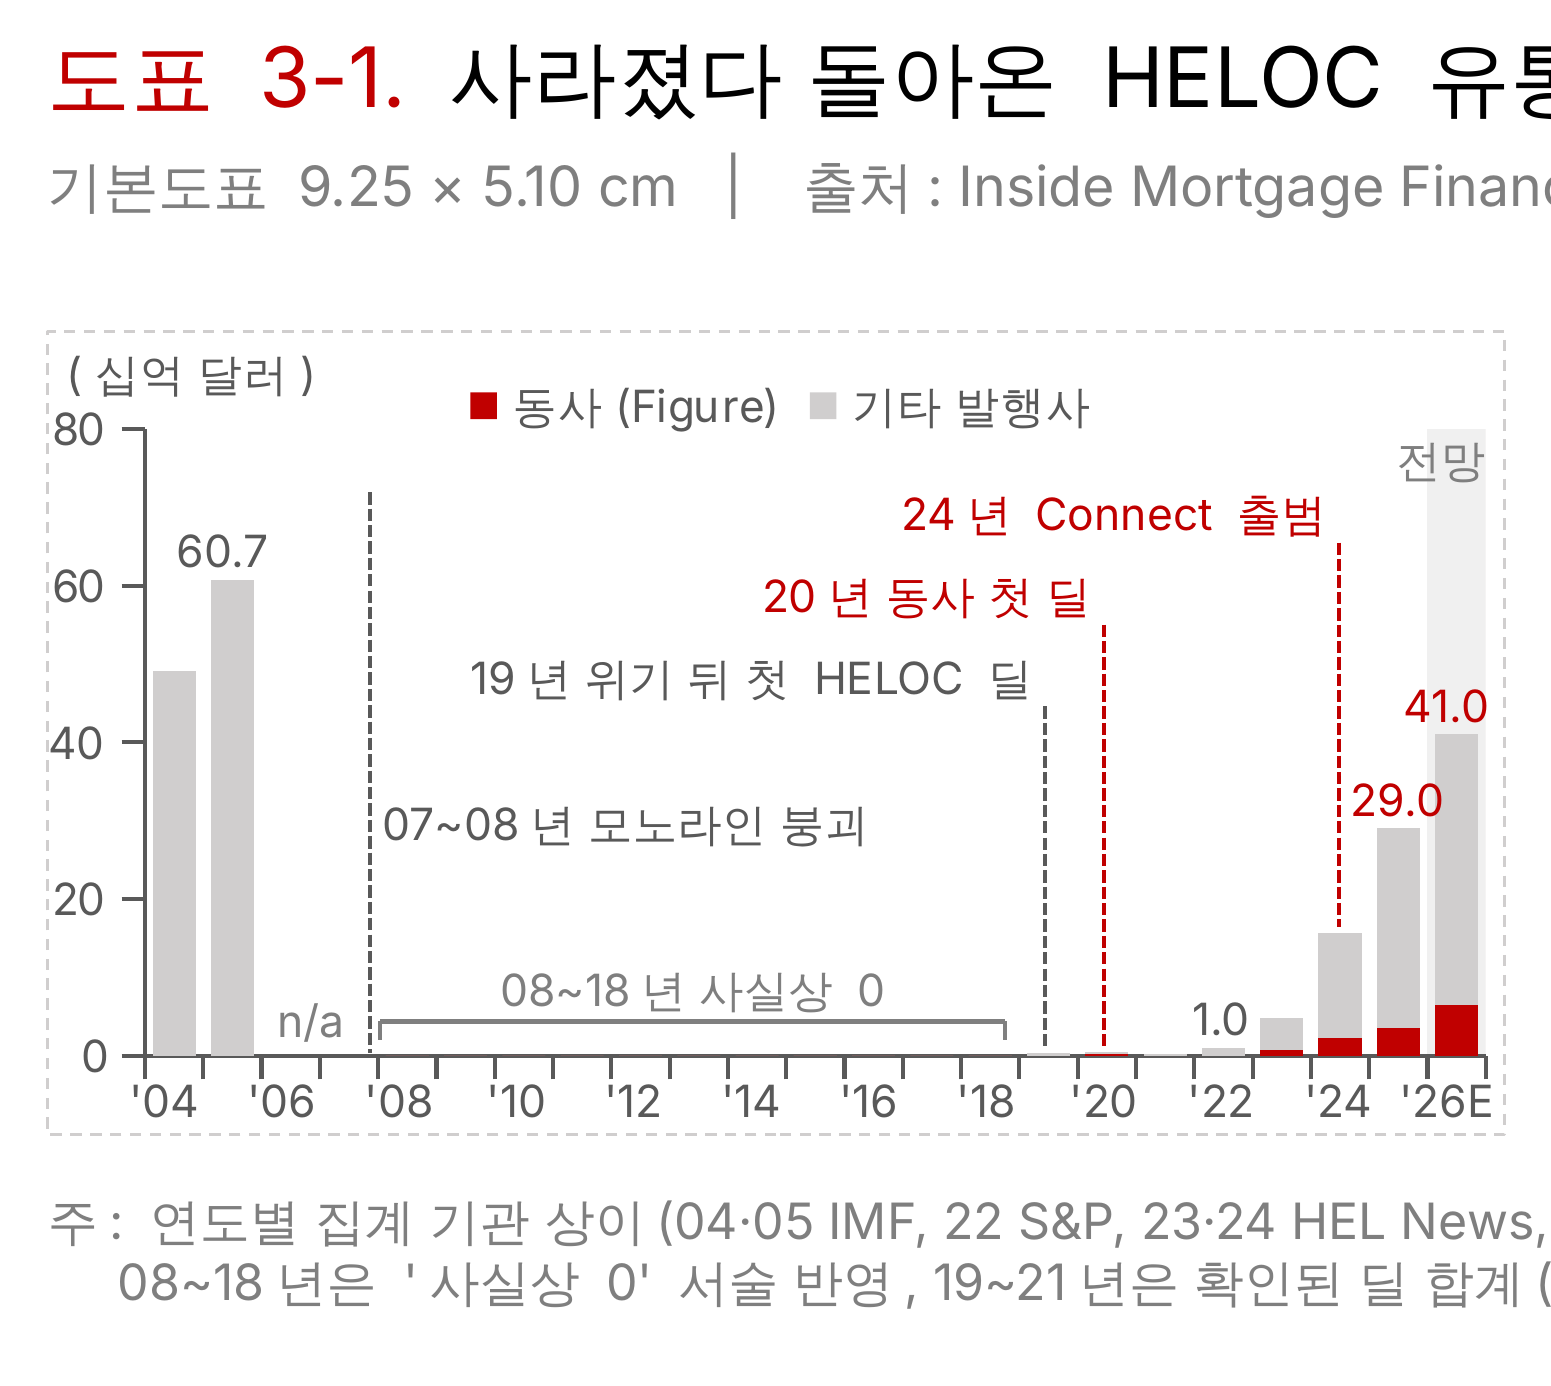
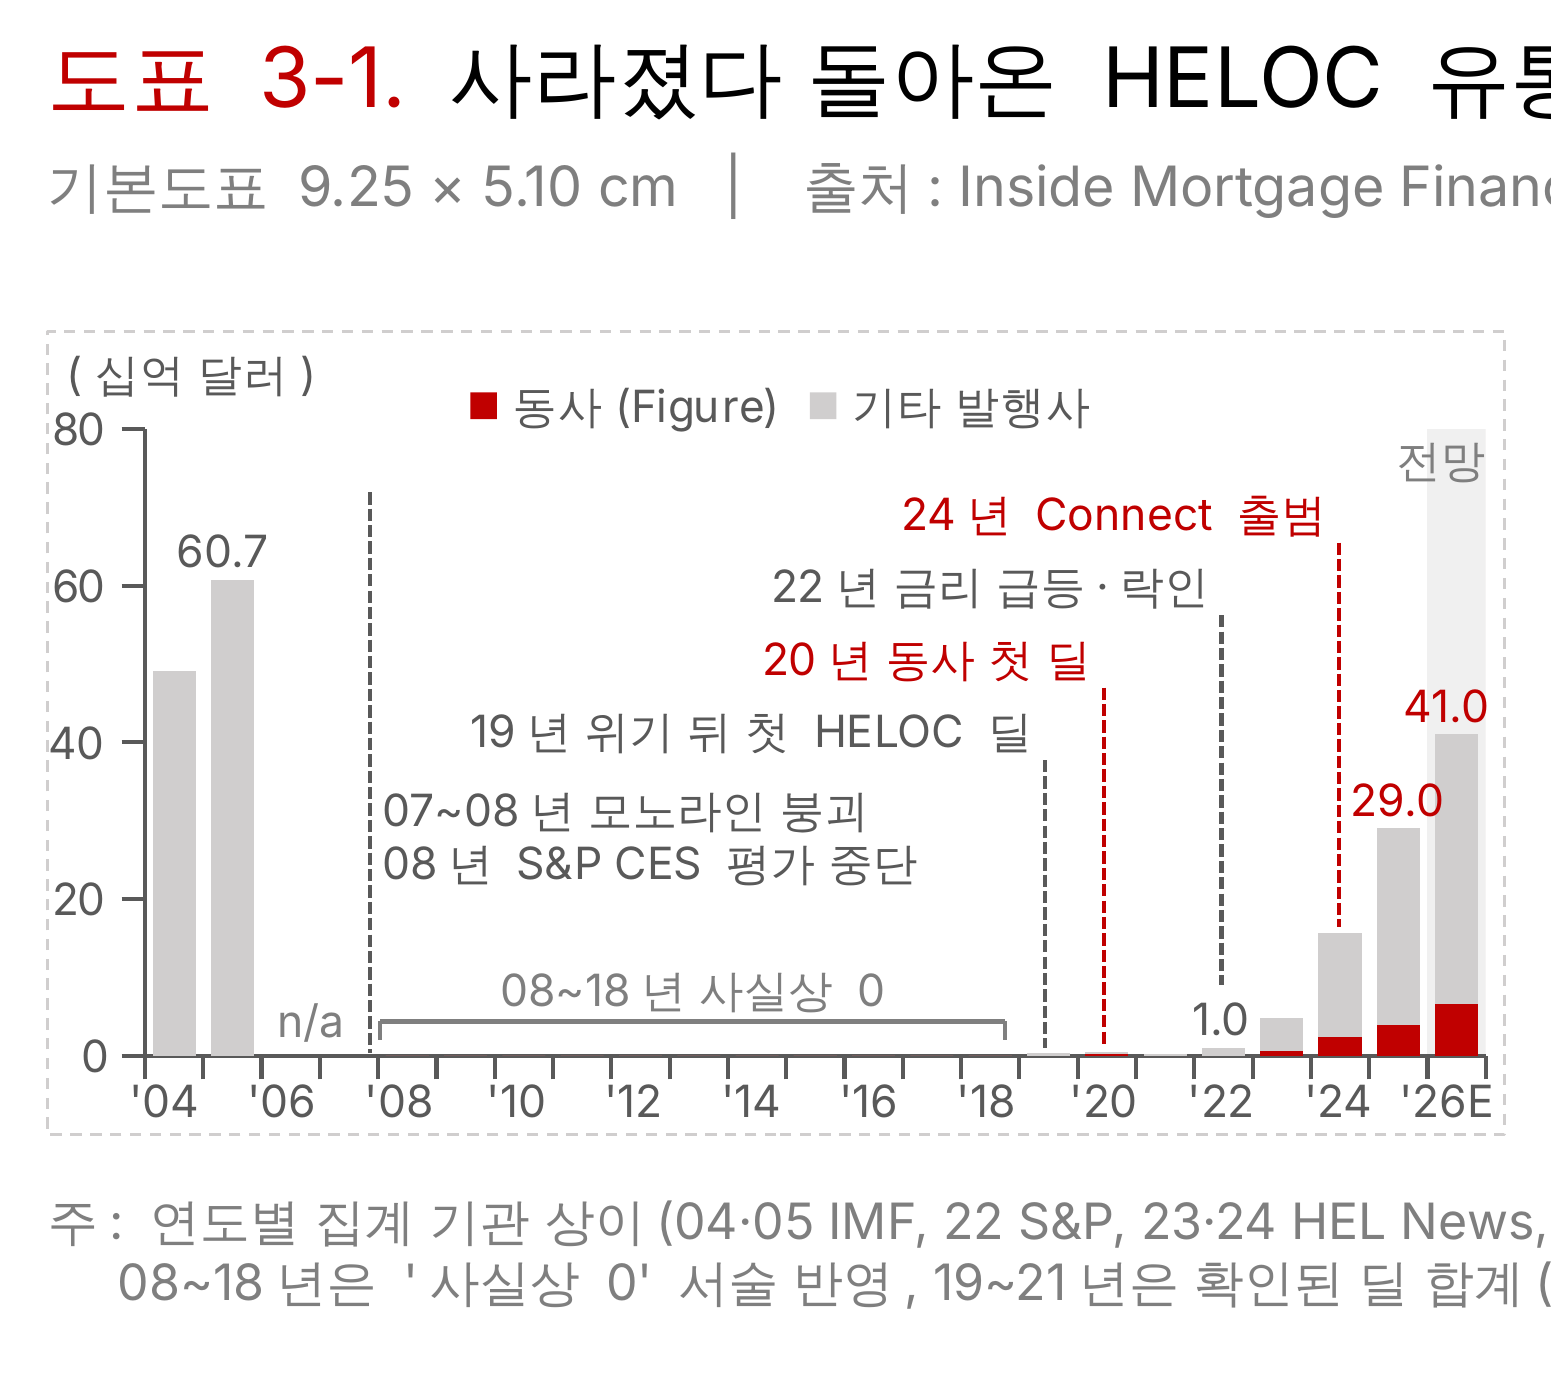
도표 3-1 원자료 보강: 동사 딜별 규모(DBRS UPB) SUMIF 집계, 사건 2개 추가
- 원자료 엑셀에 '도표 3-1 동사 딜' 시트 추가(딜 44건, 20~25년 23건 합계가 10-K 누적 23건·70억 달러와 일치)
- 동사 연도별 값을 증가액 역산 대신 딜 목록 SUMIF 수식으로 교체
- 사건 추가: 08년 S&P CES 평가 중단, 22년 금리 급등·락인(FRED 30년 모기지 금리 확인)
- 대조 56칸 불일치 0, 양식 경고 0

Claude-Session: https://claude.ai/code/session_01PFxNoUjxEBbrusGUj2tFTE

Changed region(s): [[0.2476, 0.4033, 0.7737, 0.6515]]

diff --git a/도표/3-1/src/data_3_1.py b/도표/3-1/src/data_3_1.py
@@ -11,7 +11,7 @@ MKT.update({"'05": 60_740_000_000,
             "'19": 277_700_000, "'21": 150_000_000,
             "'22": 1_000_000_000, "'25": 28_997_000_000, "'26E": 41_000_000_000})
 FIG = {y: 0 for y in YEARS}
-FIG.update({"'06": None, "'07": None, "'20": 149_000_000, "'23": 664_000_000, "'24": 2_300_000_000})
+FIG.update({"'06": None, "'07": None})          # 20년 이후는 딜 목록 시트에서 SUMIF 수식(FIG_YEARS)
 
 # 수식 행: B = 시장 합계, C = 동사(Figure)
 ROW_FORMULA = {
@@ -19,9 +19,61 @@ ROW_FORMULA = {
     ("B", "'20"): "=149000000+308000000",                                  # FLOC 2020-1 + GRADE 2020-FIG1
     ("B", "'23"): "=1900000000+2900000000",                                # HEL News: CES 19억 + HELOC 29억
     ("B", "'24"): "=10200000000+5400000000",                               # HEL News: CES 102억 + HELOC 54억
-    ("C", "'25"): f"=C{ROW[chr(39)+'24']}+1200000000",                    # 10-K: 증권화 규모 12억 달러 증가
-    ("C", "'26E"): f"=C{ROW[chr(39)+'25']}-(7000000000-5800000000)+4100000000",  # 25.4Q 제외 + 10-Q 9M 증가 41억
 }
+DEAL_SHEET = "도표 3-1 동사 딜"
+FIG_YEARS = {"'20": "2020년", "'21": "2021년", "'22": "2022년", "'23": "2023년", "'24": "2024년", "'25": "2025년", "'26E": "2026년"}
+for y, k in FIG_YEARS.items():                # 동사 = 딜 목록(B 규모, C 연도) 연도별 합계
+    ROW_FORMULA[("C", y)] = f"=SUMIF('{DEAL_SHEET}'!$C:$C,\"{k}\",'{DEAL_SHEET}'!$B:$B)"
+
+# 동사(Figure) 스폰서 HELOC 증권화 딜 — 규모 = Morningstar DBRS '총 미상환 원금(UPB)'(컷오프 기준, 1달러 단위)
+# PF(선펀딩) 딜은 선펀딩 포함 딜 규모(up to), KBRA 딜은 KBRA 발표 딜 규모. Figure 공시 누적(25.6말 15건 45억·25.9말 19건 58억·25말 23건 70억)과 일치.
+D = "dbrs.morningstar.com/research/"
+DEALS = [  # (딜, 연도, 일자, 규모, 기준, 출처)
+    ("FLOC 2020-1", "2020년", "2020.3", 149_000_000, "약치('approximately')", "DBRS 412701(2023.4.14) 'approximately $149 million'; The Block(2020.3.11)"),
+    ("FIGRE 2023-HE1", "2023년", "2023.4.14 F", 236_717_981, "UPB", D + "412701"),
+    ("FIGRE 2023-HE2", "2023년", "2023.6.5 P", 205_444_368, "UPB", D + "415418"),
+    ("FIGRE 2023-HE3", "2023년", "2023.12.7 P", 195_800_000, "KBRA 딜 규모", "KBRA(businesswire 2023.12.7) '$195.8 million'"),
+    ("FIGRE 2024-HE1", "2024년", "2024.3.13 P", 301_419_049, "UPB", D + "429315"),
+    ("FIGRE 2024-HE2", "2024년", "2024.5.16 P", 396_540_914, "UPB", D + "432872"),
+    ("FIGRE 2024-HE3", "2024년", "2024.7.10 P", 379_535_977, "UPB", D + "435974"),
+    ("FIGRE 2024-HE4", "2024년", "2024.9.6 P", 346_802_432, "UPB", D + "439111"),
+    ("FIGRE 2024-HE5", "2024년", "2024.10.8 P", 464_810_939, "UPB", D + "440961"),
+    ("FIGRE 2024-SL1", "2024년", "2024.10.31 P", 220_100_000, "KBRA 딜 규모", "KBRA(2024.10.31) 'a $220.1 million RMBS transaction'"),
+    ("FIGRE 2024-HE6", "2024년", "2024.12.19 F", 322_339_191, "UPB", D + "444939"),
+    ("FIGRE 2025-HE1", "2025년", "2025.2.10 F", 306_711_004, "UPB", D + "447668"),
+    ("FIGRE 2025-HE2", "2025년", "2025.3.28 F", 311_206_542, "UPB", D + "450820"),
+    ("FIGRE 2025-PF1", "2025년", "2025.5.6 F", 300_000_000, "선펀딩 포함(up to, 마감 UPB 125,030,921)", D + "453523"),
+    ("FIGRE 2025-HE3", "2025년", "2025.6.13 F", 354_619_566, "UPB", D + "456293"),
+    ("FIGRE 2025-HE4", "2025년", "2025.7.10 F", 301_329_484, "UPB", D + "458159"),
+    ("FIGRE 2025-FL1", "2025년", "2025.8.8 F", 234_462_485, "UPB", D + "460341"),
+    ("FIGRE 2025-HE5", "2025년", "2025.8.28 F", 479_792_904, "UPB", D + "461709"),
+    ("FIGRE 2025-PF2", "2025년", "2025.9.24 F", 300_077_650, "선펀딩 포함(up to, 마감 UPB 120,077,650)", D + "463142"),
+    ("FIGRE 2025-HE6", "2025년", "2025.10.22 F", 296_043_061, "UPB", D + "465392"),
+    ("FIGRE 2025-HE7", "2025년", "2025.11.25 F", 368_551_632, "UPB", D + "468140"),
+    ("FIGRE 2025-HE8", "2025년", "2025.12.2 F", 435_986_235, "UPB", D + "468898"),
+    ("FIGRE 2025-FL2", "2025년", "2025.12.18 F", 242_341_393, "UPB", D + "470215"),
+    ("FIGRE 2026-HE1", "2026년", "2026.2.3 F", 410_828_822, "UPB", D + "473359"),
+    ("FIGRE 2026-HE2", "2026년", "2026.3.12 F", 504_473_504, "UPB", D + "476260"),
+    ("FIGRE 2026-HF3", "2026년", "2026.3.19 F", 296_306_884, "UPB", D + "476780"),
+    ("FIGRE 2026-FL1", "2026년", "2026.3.30 F", 274_586_095, "UPB", D + "477810"),
+    ("FIGRE 2026-HE4", "2026년", "2026.5.7 F", 383_933_694, "UPB", D + "480518"),
+    ("FIGRE 2026-HE5", "2026년", "2026.6.3 F", 365_976_352, "UPB", D + "482331"),
+    ("FIGRE 2026-FL2", "2026년", "2026.6.18 F", 346_117_864, "UPB", D + "483484"),
+    ("FIGRE 2026-HE6", "2026년", "2026.6.30 F", 359_775_190, "UPB", D + "484398"),
+    ("FIGRE 2026-EXP1", "2026년", "2026.7.10 F", 321_104_032, "UPB", D + "485114"),
+    ("FIGRE 2026-HF7", "2026년", "2026.7.28 F", 319_901_741, "UPB", D + "486376"),
+    ("FIGRE 2026-HE8", "2026년", "2026.8.13 F", 404_296_027, "UPB", D + "487368"),
+    ("FIGRE 2026-FL3", "2026년", "2026.8.18 F", 354_244_271, "UPB", D + "487602"),
+    ("FIGRE 2026-HE9", "2026년", "2026.8.25 F", 326_462_318, "UPB", D + "487947"),
+    ("FIGRE 2026-EXP2", "2026년", "2026.8.31 F", 316_334_341, "UPB", D + "488263"),
+    ("FIGRE 2026-HE10", "2026년", "2026.9.16 F", 370_844_800, "UPB", D + "489148"),
+    ("FIGRE 2026-HF11", "2026년", "2026.9.28 F", 321_068_502, "UPB", D + "489995"),
+    ("FIGRE 2026-EXP3", "2026년", "2026.10.9 F", 345_628_456, "UPB", D + "491024"),
+    ("FIGRE 2026-HE12", "2026년", "2026.10.7 P", 345_970_626, "UPB(가평가)", D + "490807"),
+    ("FIGRE 2026-FL4", "2026년", "2026.11.12 F", 257_557_285, "UPB", D + "493392"),
+    ("FIGRE 2026-HE13", "2026년", "2026.11.4 15Ga-2", None, "규모 미공개(대출 2,967건)", "SEC ABS-15G acc 0001193125-26-446956"),
+    ("FIGRE 2026-EXP4", "2026년", "2026.11.16 15Ga-2", None, "규모 미공개(대출 4,936건)", "SEC ABS-15G acc 0001193125-26-463924"),
+]
 
 MKT_SRC = {
     "'04": "SMIC 역산: IMF 'Second-Lien MBS Issuance Up Sharply in 2005'(2006) — 05년 607.4억 달러, 전년 대비 +23.6%",
@@ -42,21 +94,22 @@ for y in range(8, 19):
                             "HousingWire(2023.10.5) 'essentially stopped for about a decade'")
 
 FIG_SRC = {
-    "'20": "DBRS Morningstar(2023.4.14) — FLOC 2020-1 'approximately $149 million'(동사 첫 증권화, 무등급)",
-    "'21": "동사 스폰서 딜 없음(DBRS 'Previously, Figure sponsored FLOC 2020-1', 10-K 2025 Exhibit 21)",
+    "'20": "딜 목록 시트 합계: FLOC 2020-1(동사 첫 증권화, 무등급)",
+    "'21": "동사 스폰서 딜 없음(DBRS 'Previously, Figure sponsored FLOC 2020-1'; 10-K 2025 누적 23건 = FLOC + FIGRE 22건)",
     "'22": "동사 스폰서 딜 없음(위와 같음)",
-    "'23": "Figure S-1(2025.8.18) — 2023년 동사 보유 대출 증권화 UPB 6.64억 달러(FIGRE 2023-HE1·HE2·HE3)",
-    "'24": "Finsight(GlobalCapital 인용) — 'over $2.3bn through seven Heloc RMBS deals in 2024'(하한)",
-    "'25": "SMIC 계산: 24년 + Figure 10-K(2025) '$1.2 billion increase in the volume of securitizations'",
-    "'26E": "SMIC 계산(26.3Q 누적 실적): 25년 − 25.4Q(10-K 누적 70억 − 424B4 25.9말 누적 58억) + 10-Q(26.3Q) 9M '$4.1 billion increase'",
+    "'23": "딜 목록 시트 합계(3건)",
+    "'24": "딜 목록 시트 합계(7건) — Finsight 'over $2.3bn through seven' 과 일치",
+    "'25": "딜 목록 시트 합계(12건) — 10-K 누적 23건·70억 달러와 일치",
+    "'26E": "딜 목록 시트 합계: 2026.11.19까지 확인된 19건(HE13·EXP4 규모 미공개, HE12는 가평가 기준) — 연간 아님",
 }
 
-EVENTS = {"'07": "07~08년 모노라인 붕괴", "'13": "08~18년 사실상 0", "'19": "19년 위기 뒤 첫 HELOC 딜",
+EVENTS = {"'07": "07~08년 모노라인 붕괴\n08년 S&P CES 평가 중단", "'22": "22년 금리 급등·락인", "'13": "08~18년 사실상 0", "'19": "19년 위기 뒤 첫 HELOC 딜",
           "'20": "20년 동사 첫 딜", "'24": "24년 Connect 출범"}
 EVENT_SRC = {
-    "'07": "S&P, MBIA·Ambac AAA→AA 강등(2008.6.5, InvestmentNews); FSA HELOC 8건 손실 2.661억(Bond Buyer 2008.5.15); "
+    "'07": "IMF(2008.5.8) 'S&P Stops Rating Second-Lien MBS Deals'(CES 담보 RMBS 평가 중단); S&P, MBIA·Ambac AAA→AA 강등(2008.6.5, InvestmentNews); FSA HELOC 8건 손실 2.661억(Bond Buyer 2008.5.15); "
            "'Pre-crisis, you couldn't get a AAA on a Heloc-backed bond without a bond wrap'(Bloomberg 2019.6.26)",
-    "'13": "KBRA(2026.9.8), HousingWire(2023.10.5)",
+    "'13": "KBRA(2026.9.8), HousingWire(2023.10.5), dv01·Fitch(HEL News 2025.7.15) 'no securitization volume from 2008 to 2021'(CES)",
+    "'22": "Freddie Mac PMMS 30년 고정(FRED MORTGAGE30US) 3.22%(2022.1.6)→7.08%(2022.10.27); dv01·Fitch(HEL News 2025.7.15) 'Activity resumed in 2021 as elevated interest rates significantly reduced refinance incentives'",
     "'19": "Towd Point HE Trust 2019-HE1(FirstKey·Cerberus) — Fitch 'first all-HELOC securitization in the post-crisis era'(NMN 2019.6.14)",
     "'20": "FLOC 2020-1, 블록체인 기반 첫 증권화(The Block 2020.3.11, DBRS 2023.4.14)",
     "'24": "Figure 424B4(2025.9.11) 'In June 2024, we launched Figure Connect'",
@@ -66,4 +119,4 @@ MKT = [MKT[y] for y in YEARS]
 FIG = [FIG[y] for y in YEARS]
 
 NOTE = ("연도별 집계 기관 상이(04·05 IMF, 22 S&P, 23·24 HEL News, 25 J.P. Morgan, 26E BofA 전망), 04년은 05년 증가율로 역산, 06·07년은 원자료 확인 중(n/a)"
-        " / 08~18년은 '사실상 0' 서술 반영, 19~21년은 확인된 딜 합계(하한), 동사 25년·26E(26년 3분기 누적)는 10-K·10-Q 증가액으로 SMIC 계산")
+        " / 08~18년은 '사실상 0' 서술 반영, 19~21년은 확인된 딜 합계(하한), 동사는 DBRS 딜별 UPB 합계(26E 동사는 26.11.19까지 확인된 19건)")

diff --git a/도표/3-1/src/build_3_1.py b/도표/3-1/src/build_3_1.py
@@ -3,7 +3,7 @@ import sys
 sys.path.insert(0, ".")
 from smic_xlsx import SourceBook, load
 from smic_charts_lib import *
-from data_3_1 import YEARS, MKT, FIG, MKT_SRC, NOTE, EVENTS, FIG_SRC, ROW_FORMULA, ROW, EVENT_SRC
+from data_3_1 import YEARS, MKT, FIG, MKT_SRC, NOTE, EVENTS, FIG_SRC, ROW_FORMULA, ROW, EVENT_SRC, DEALS, DEAL_SHEET
 
 NO, TITLE = "도표 3-1", "사라졌다 돌아온 HELOC 유통시장: 미국 2순위 증권화 발행액"
 XLSX, PPTX = "SMIC_도표3-1_원자료.xlsx", "SMIC_도표3-1.pptx"
@@ -23,6 +23,13 @@ ws = wb.add(NO, TITLE, YEARS,
             unit="(십억 달러)", size="기본", note=NOTE.replace(" / ", " "),
             check="06·07년 시장 연간 발행액 미확보(n/a) — IMF 'Mortgage & Asset Securities Issuance' 등 원자료 필요; "
                   "19~21년은 확인된 딜 합계(하한); 동사 25년·26년은 10-K·10-Q 증가액으로 SMIC 계산 — 딜별 합계로 확인 권장")
+wb.add(DEAL_SHEET, "동사(Figure) 스폰서 HELOC 증권화 딜 목록(도표 3-1 동사 열의 산출 근거)", [x[0] for x in DEALS],
+       cols=[("규모", [x[3] for x in DEALS], FMT["원"])],
+       labels=[("연도", [x[1] for x in DEALS]), ("일자", [x[2] for x in DEALS]), ("기준", [x[4] for x in DEALS])],
+       row_sources=[x[5] for x in DEALS], first="딜", unit="(달러)", kind="표",
+       source="Morningstar DBRS 신용평가 보도(딜별 총 UPB), KBRA, Figure 10-K",
+       note="일자 F=DBRS 본평가(≈마감), P=가평가·가격결정. 20~25년 23건 합계 7,149,632,807달러 = 10-K '23건·70억 달러'와 일치",
+       check="차트 없음 — 도표 3-1 동사 열이 이 시트를 SUMIF로 집계; 26년 HE13·EXP4 규모 미공개")
 for (col, y), f in ROW_FORMULA.items():     # 역산·합산·누적 차이는 수식으로 남긴다
     c = ws[f"{col}{ROW[y]}"]
     c.value = f
@@ -79,7 +86,7 @@ xm = (p.x(i07) + p.x(i07 + 1)) / 2
 # 07/08 경계에 세로 점선(붕괴 시점) + 오른쪽 가운데 높이에 글자 — 19·20·24 글자와 다른 줄
 y_line0 = (p.y(max(known)) if known else p.top + 0.40)
 cv.line(xm, y_line0, xm, p.bottom - 0.02, DG, 0.75, dash=True)
-cv.val(xm + 0.08, 2.95, sh, "사건", i07, color=DG, align="l")
+cv.val(xm + 0.08, 2.86, sh, "사건", i07, color=DG, align="l")
 if any(tot[i] is None for i in (i06, i07)):  # 원자료 미확보 연도 표시(06·07 한 번만)
     cv.label((p.x(i06) + p.x(i07)) / 2, p.bottom - 0.40, "n/a", MG, align="c")
 # 08~18 공백: 바닥 위 괄호선 + 글자
@@ -94,8 +101,9 @@ cv.val((xa + xb) / 2, yb - 0.38, sh, "사건", i13, color=MG, align="c")
 # 19·20·24: 오른쪽 끝을 지시선에 맞춘 글자, 높이를 엇갈림
 # 오른쪽 사건일수록 높게(글자가 왼쪽 사건의 지시선을 가로지르지 않게)
 event("'24", 0.98, "r", RED)
-event("'20", 1.50, "r", RED)
-event("'19", 2.02, "r", DG)
+event("'22", 1.44, "r", DG, y_end=p.y(tot[YEARS.index("'22")]) - 0.40)   # '1.0' 글자 위에서 멈춤
+event("'20", 1.90, "r", RED)
+event("'19", 2.36, "r", DG)
 
 prs.save(PPTX)
 print("saved")
